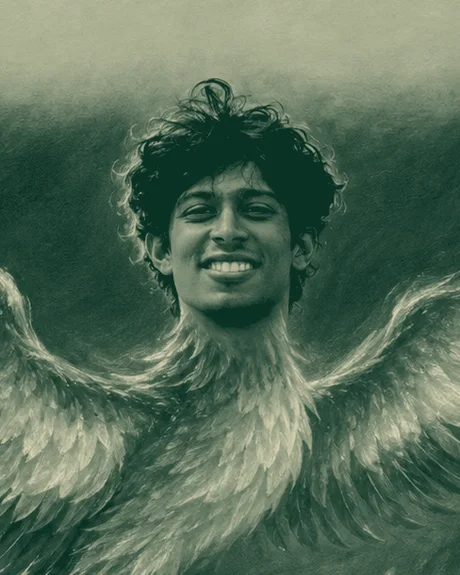
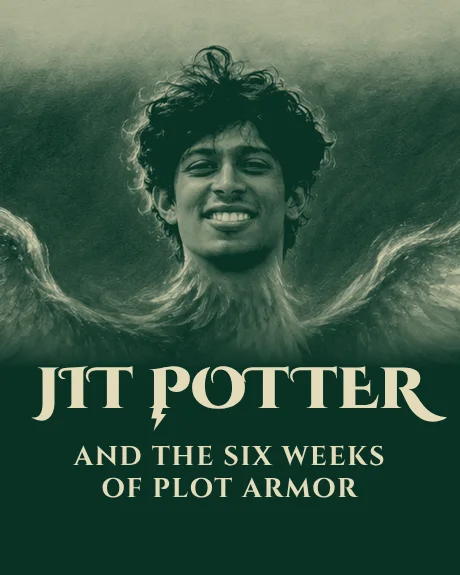
Title the Week 11 phoenix and tighten the stories
Prints "JIT POTTER AND THE SIX WEEKS OF PLOT ARMOR" on the art in storybook
lettering with a lightning-bolt P, restacks it on the cover copy's faded foot,
and uses it as Jit's hook and the photo caption. Trims the stories a little and
adds the Mateo-in-India and Schedule jokes.

Claude-Session: https://claude.ai/code/session_01SofXJJiW1oZvWUU3RRAvfu

diff --git a/components/program.tsx b/components/program.tsx
@@ -28,7 +28,7 @@ const OVAL_COPY: Record<string, string> = {
   "/assets/week-8.webp": "/assets/week-8-cover.webp", // caption stacked four lines high, above the oval's narrow foot
   "/assets/week-9.webp": "/assets/week-9-cover.webp", // caption stacked three lines high, above the oval’s narrow foot
   "/assets/week-10.webp": "/assets/week-10-cover.webp", // square photo: caption restacked three lines high on a faded foot
-  "/assets/week-11.webp": "/assets/week-11-cover.webp", // full painting shrinks the face to ~20px: cropped in on the head and wings
+  "/assets/week-11.webp": "/assets/week-11-cover.webp", // cropped in on the face (the full painting shrinks it to ~20px), title restacked on a faded foot
 };
 
 export function Cover({ items, meme, children }: { items: ReactNode[]; meme?: Meme | null; children: ReactNode }) {
